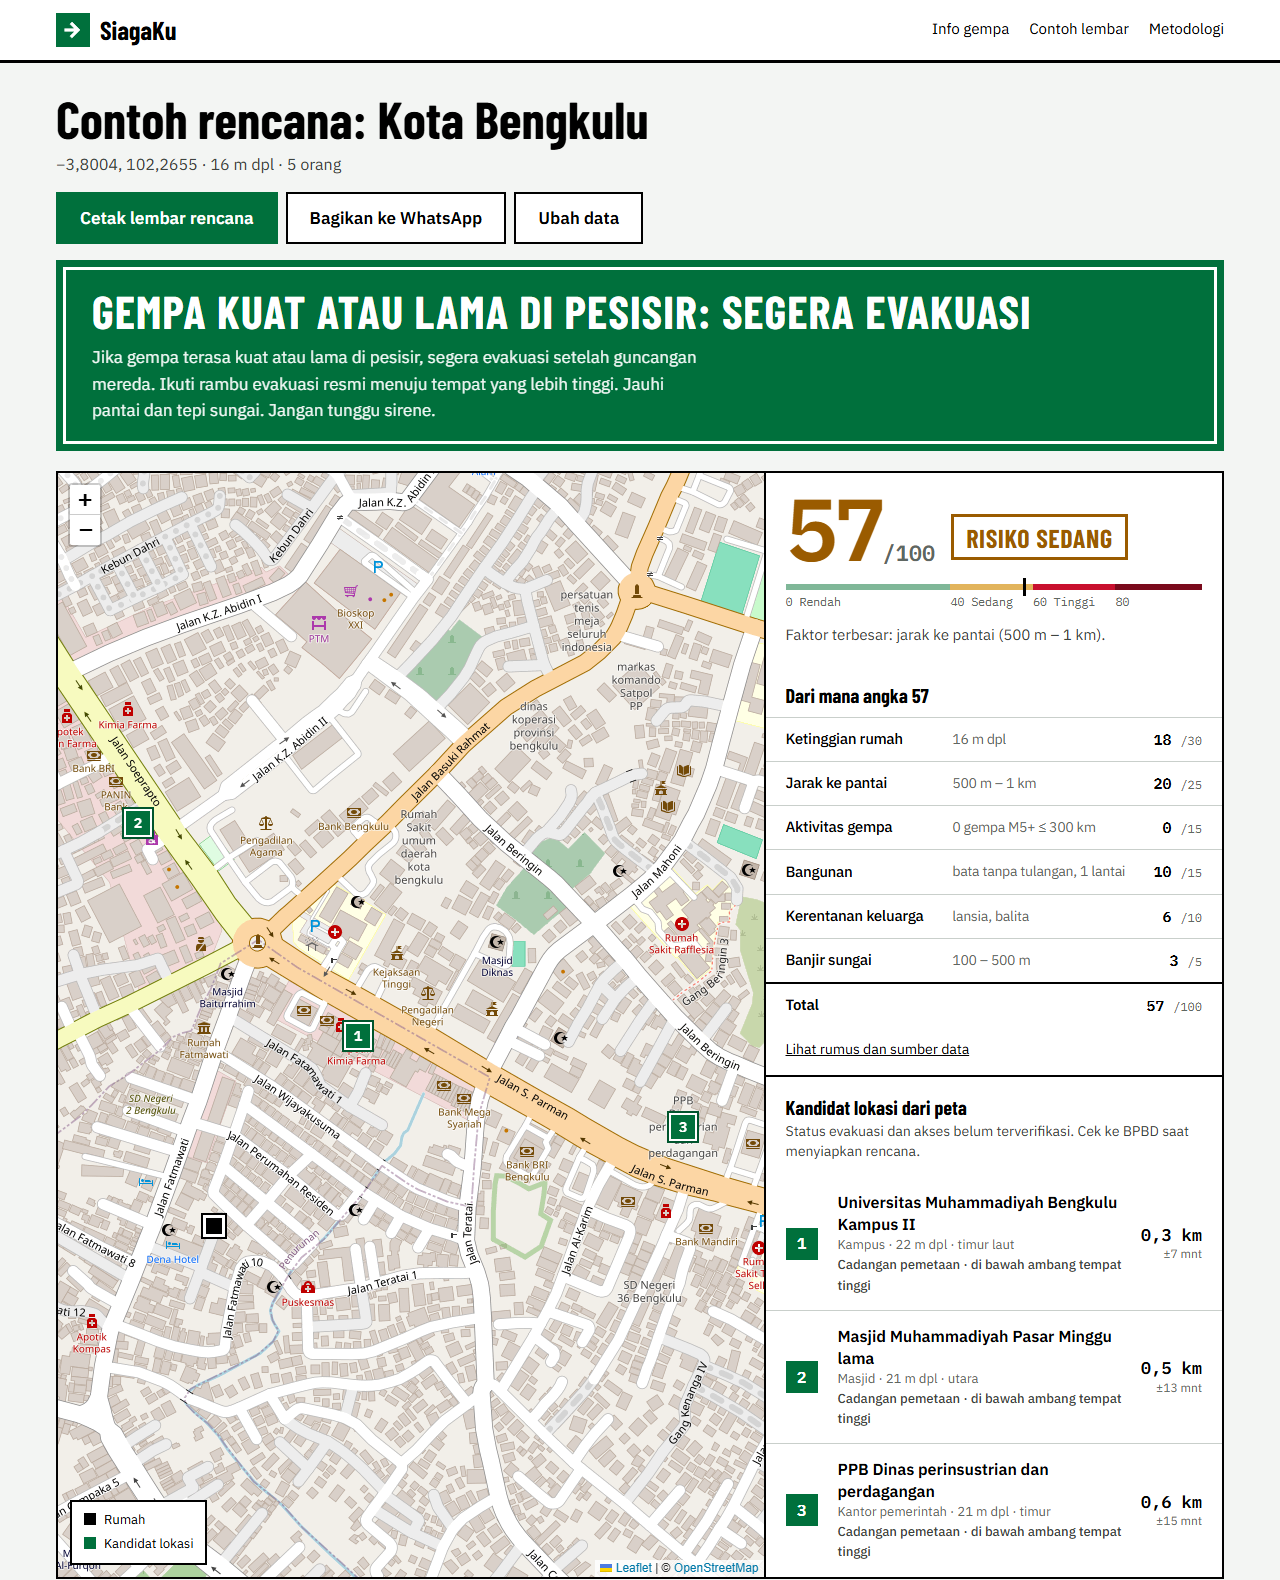
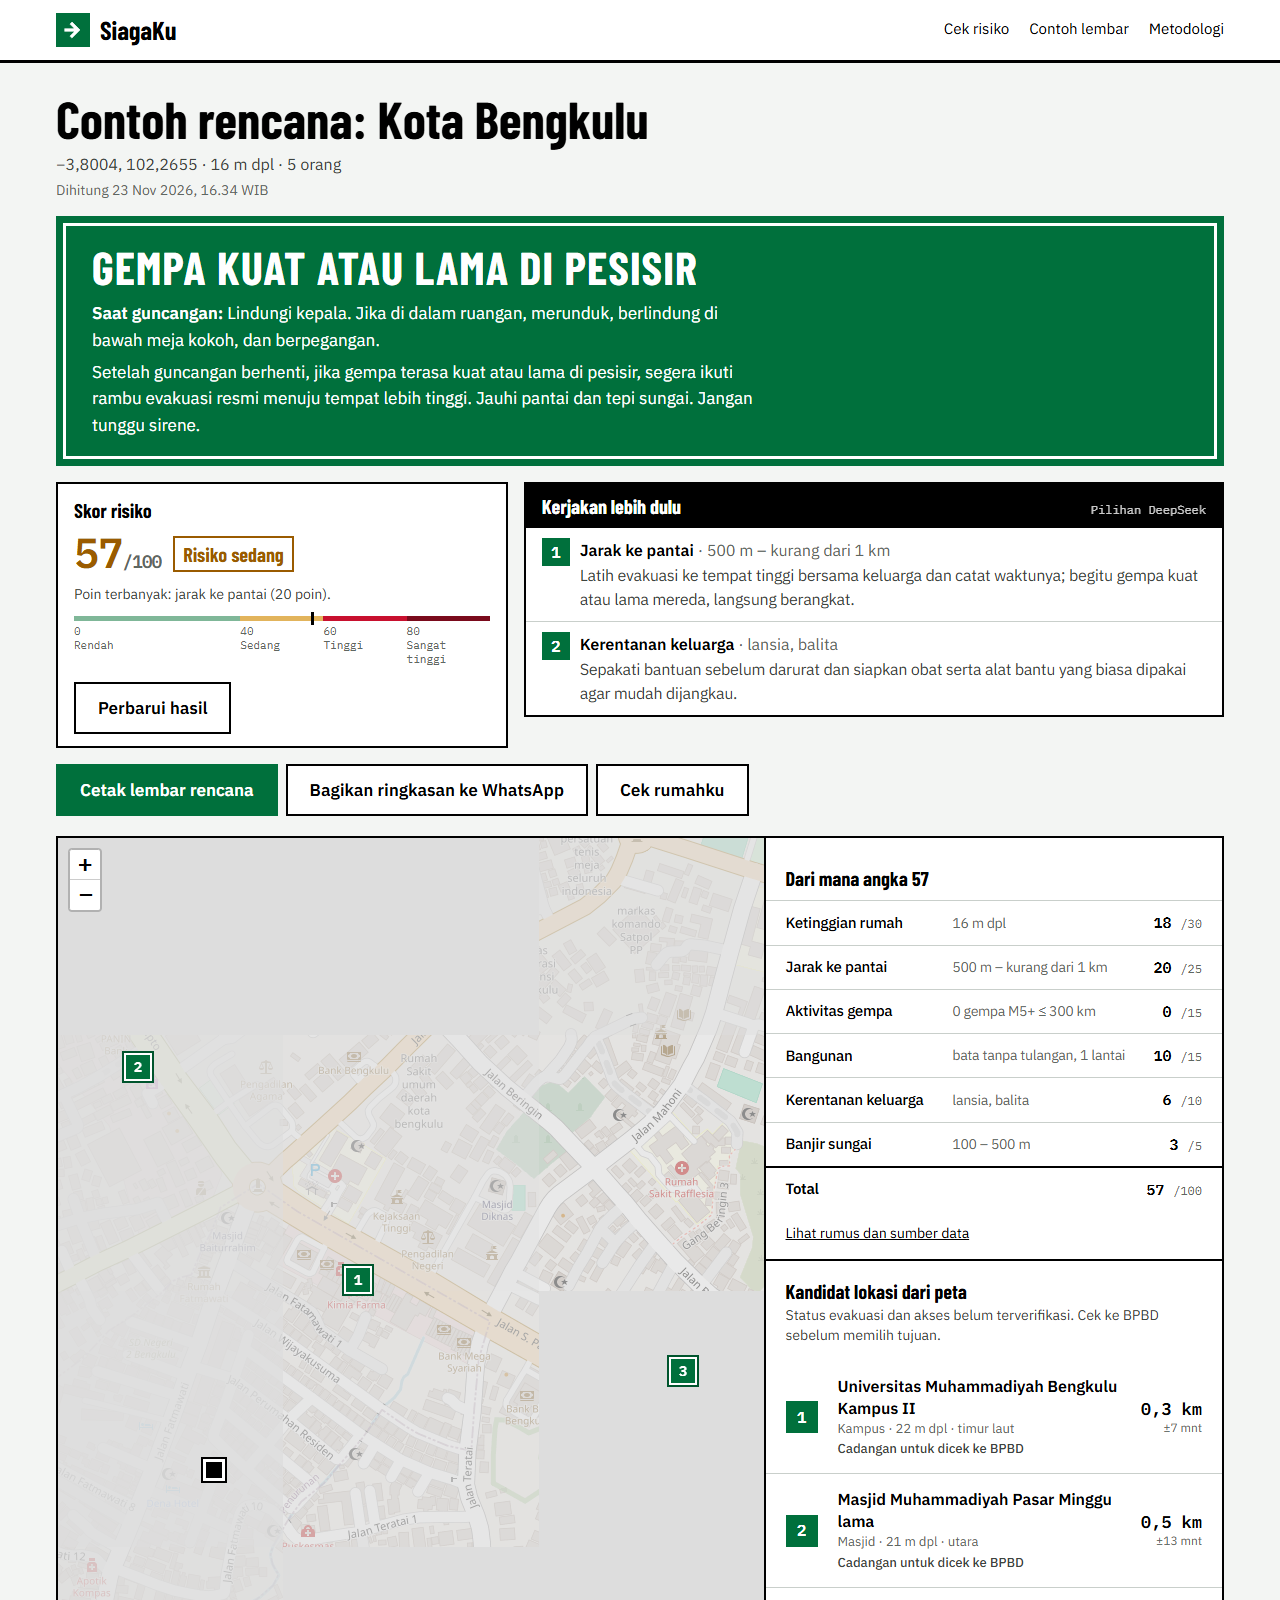
docs: selaraskan README lomba dan lisensi SiagaKu

diff --git a/README.md b/README.md
@@ -1,6 +1,6 @@
 # SiagaKu
 
-**Rencana siaga gempa & tsunami untuk satu rumah tangga — bukan untuk satu kota.**
+**Rencana siaga gempa dan tsunami untuk keluarga.**
 
 Tandai rumahmu di peta dan isi kondisi keluarga untuk melihat rincian skor risiko, kandidat lokasi sekitar, rencana evakuasi keluarga, dan isi tas siaga.
 
@@ -14,23 +14,21 @@ Tandai rumahmu di peta dan isi kondisi keluarga untuk melihat rincian skor risik
 
 ## Masalah
 
-Bengkulu berada di atas zona subduksi Sunda (segmen Megathrust Mentawai) dan pernah diguncang gempa besar pada 2000 dan 2007. Peta risiko dan info gempa yang ada bersifat **per wilayah**, sementara keputusan yang menentukan selamat atau tidak terjadi **per rumah**: lari ke mana, lewat mana, siapa membantu nenek atau balita, apa yang dibawa.
-
-Kebanyakan keluarga tidak tahu ketinggian rumahnya, tidak tahu jarak pastinya ke pantai, dan tidak punya rencana tertulis.
+Peta risiko dan kabar gempa membantu warga Bengkulu memahami ancaman di wilayahnya. Di rumah, masih ada keputusan yang perlu dibahas bersama. Siapa yang bisa membantu balita atau lansia? Di mana keluarga bertemu jika terpisah? SiagaKu menyiapkan lembar yang bisa diisi, dicetak, dan dibahas.
 
 ## Fitur
 
 | | |
 |---|---|
-| **Info gempa terkini BMKG** | Gempa terbaru di beranda, diperbarui tiap ±1 menit |
+| **Info gempa terkini BMKG** | Gempa terbaru dan daftar 15 kejadian M5+ terakhir, dengan waktu kejadian dan sumber |
 | **Pilih lokasi rumah** | GPS atau geser pin di peta; ketinggian (Open-Meteo) dan **jarak ke pantai dihitung otomatis** dari garis pantai OpenStreetMap |
 | **Skor risiko 0–100 yang transparan** | Rumus terbuka dari 6 faktor, setiap poin ditampilkan beserta alasannya |
 | **Kandidat lokasi dari peta** | Tempat umum dari OpenStreetMap yang disaring berdasarkan ketinggian dan jarak. Status evakuasi serta akses perlu dikonfirmasi ke BPBD |
 | **Papan rambu evakuasi** | Arahan sesuai kondisi pesisir atau nonpesisir, berdasarkan panduan BMKG |
-| **Rencana keluarga** | Aplikasi menyusun langkah, tugas, dan tips. DeepSeek memilih satu tips dan satu peran untuk dibahas lebih dulu |
+| **Rencana keluarga** | Aplikasi menyusun langkah, tugas, dan tas siaga. DeepSeek memilih dua fokus persiapan dari daftar yang ditulis aplikasi |
 | **Checklist tas siaga** | Isi dasar + kebutuhan khusus (lansia, balita, ibu hamil, disabilitas, obat rutin), tersimpan di perangkat |
-| **Bagikan ke WhatsApp** | Ringkasan rencana untuk grup keluarga |
-| **Tanpa akun** | Tidak ada login, tidak ada database; data hanya di perangkat pengguna |
+| **Cetak dan bagikan** | Simpan lembar lengkap sebagai PDF atau bagikan arahan umum dan tautan SiagaKu lewat WhatsApp |
+| **Tanpa akun** | Isian dikirim ke server saat dihitung. Draf, hasil, dan centang disimpan di browser |
 
 ## Cara kerja
 
@@ -59,13 +57,19 @@ Data keluarga ─┐
 2. DeepSeek menerima opsi persiapan yang dibuat aplikasi. Server hanya menerima dua indeks yang sesuai dengan daftar. Nama keluarga, koordinat rumah, dan tulisan obat rutin tidak dikirim ke DeepSeek.
 3. Jika AI gagal atau melampaui batas 8 detik, rencana tampil dengan urutan persiapan bawaan.
 
+Dalam satu uji contoh Kota Bengkulu, urutan bawaan memilih jarak ke pantai dan bangunan. DeepSeek memilih jarak ke pantai dan kerentanan keluarga, sehingga pendampingan anggota keluarga muncul di daftar persiapan awal.
+
+### Cara isian dipakai
+
+Formulir diproses oleh server saat pengguna meminta rencana. Koordinat dipakai untuk mengambil data peta atau elevasi. DeepSeek menerima jumlah penghuni, kategori anggota yang perlu bantuan, status obat rutin, kendaraan, dan opsi tindakan. WhatsApp menerima arahan umum dan tautan situs. Pengguna dapat menyimpan PDF secara terpisah. Tautan berbasis isian dari versi lama sudah dinonaktifkan.
+
 ## Metodologi skor (ringkas)
 
 | Faktor | Sumber | Maks | Aturan |
 |---|---|---|---|
-| Ketinggian rumah | Open-Meteo | 30 | < 5 m: 30 · 5–10: 25 · 10–20: 18 · 20–30: 10 · ≥ 30: 3 |
-| Jarak ke pantai | garis pantai OSM (bisa diubah pengguna) | 25 | < 0,5 km: 25 · 0,5–1: 20 · 1–3: 13 · 3–5: 6 · > 5: 0 |
-| Aktivitas gempa | BMKG, 15 gempa M5+ terakhir | 15 | dalam 300 km: 0 → 0 · 1 → 5 · 2–3 → 10 · ≥ 4 → 15 |
+| Ketinggian rumah | Open-Meteo | 30 | < 5 m: 30 · 5 hingga < 10: 25 · 10 hingga < 20: 18 · 20 hingga < 30: 10 · ≥ 30: 3 · data tidak tersedia: 25 |
+| Jarak ke pantai | garis pantai OSM (bisa diubah pengguna) | 25 | < 0,5 km: 25 · 0,5 hingga < 1: 20 · 1 hingga < 3: 13 · 3–5: 6 · > 5: 0 |
+| Aktivitas gempa | BMKG, 15 gempa M5+ terakhir | 15 | dalam 300 km: 0 → 0 · 1 → 5 · 2–3 → 10 · ≥ 4 → 15 · daftar tidak lengkap: skor sementara |
 | Bangunan | pengguna | 15 | beton bertulang 3 · bata tanpa tulangan 10 · kayu 8 · > 2 lantai tanpa tulangan +5 |
 | Kerentanan keluarga | pengguna | 10 | +3 per kategori (lansia, balita, ibu hamil, disabilitas), +1 tanpa kendaraan |
 | Banjir sungai | pengguna | 5 | < 100 m: 5 · 100–500 m: 3 · lebih jauh: 0 |
@@ -73,10 +77,10 @@ Data keluarga ─┐
 Kategori: 0–39 Rendah · 40–59 Sedang · 60–79 Tinggi · 80–100 Sangat tinggi. Detail di halaman [/tentang](https://siagaku.vercel.app/tentang).
 
 **Kandidat lokasi dua tingkat.** Data contoh dari Kota Bengkulu menunjukkan sedikit tempat umum di ketinggian ≥ 30 m dalam radius 5 km. Peta menampilkan kandidat untuk diperiksa saat menyusun rencana keluarga.
-1. **Tempat tinggi** — ≥ 30 m (atau ≥ rumah + 15 m) dalam 5 km, diutamakan.
-2. **Cadangan pemetaan** — jika tingkat pertama kurang dari 3 kandidat. Radius 3 km, minimal 5 m lebih tinggi dari rumah, serta terbukti lebih jauh dari pantai berdasarkan data jarak rumah dan kandidat.
+1. **Tingkat 1.** Radius 5 km, ambang terendah di antara 30 m dan elevasi rumah ditambah 15 m. Jika elevasi rumah diketahui, kandidat juga harus lebih tinggi dari rumah. Jika tidak, ambangnya 30 m.
+2. **Cadangan pemetaan.** Digunakan pada data bawaan Bengkulu jika tingkat pertama kurang dari tiga kandidat. Radius 3 km, minimal 5 m lebih tinggi dari rumah dan lebih jauh dari garis pantai berdasarkan kedua jarak yang terukur.
 
-> Skor bersifat indikatif berdasarkan faktor yang lazim dipakai BNPB/InaRISK, **bukan pengganti kajian resmi BPBD**.
+> Skor indikatif ini memakai bobot yang disusun tim untuk membantu persiapan. Untuk kajian bahaya wilayah dan tujuan evakuasi resmi, cek InaRISK dan BPBD.
 
 ## Tech stack
 
@@ -87,7 +91,7 @@ Kategori: 0–39 Rendah · 40–59 Sedang · 60–79 Tinggi · 80–100 Sangat t
 | Peta | Leaflet 1.9 + react-leaflet 5, tile OpenStreetMap |
 | Validasi | zod 4 |
 | AI dalam produk | DeepSeek `deepseek-chat` (API format OpenAI), dipanggil hanya dari server |
-| Uji | Vitest (110 unit test) |
+| Uji | Vitest untuk logika dan API, serta pengujian alur di browser |
 | Hosting | Vercel |
 
 ## Menjalankan di komputer sendiri
@@ -140,8 +144,8 @@ scripts/                  pengunduh data
 
 - Ketinggian dari model elevasi global (resolusi ±90 m), bukan survei lapangan.
 - Data kandidat bawaan mencakup Provinsi Bengkulu. Di daerah lain, kelengkapan data bergantung pada Overpass.
-- Belum mempertimbangkan apakah bangunan tujuan benar-benar bisa dimasuki saat darurat atau berapa lantainya.
-- Rute masih garis lurus + estimasi; belum memakai jaringan jalan.
+- Rentang 15 gempa terakhir mengikuti data BMKG. Batas 5 km dari pantai adalah aturan aplikasi untuk skor dan arahan awal. Ikuti peringatan resmi yang berlaku di lokasimu.
+- Akses dan kelayakan setiap kandidat harus dicek ke BPBD. Jarak garis lurus dan taksiran waktu hanya membantu persiapan awal.
 - Lanjutan: data TES (tempat evakuasi sementara) resmi dari BPBD, rute jalan kaki nyata, mode luring (PWA), dan versi untuk sekolah.
 
 ## Pengungkapan penggunaan AI, library, aset, dan data
@@ -150,7 +154,7 @@ Bagian ini wajib menurut panduan lomba.
 
 **AI coding assistant**
 - **Claude Code (Anthropic)** — membantu menulis, menguji, dan merapikan kode, serta menyusun dokumen perencanaan, atas arahan dan keputusan tim. Commit yang dibantu ditandai `Co-Authored-By: Claude` di riwayat git.
-- **OpenAI Codex** — asisten coding cadangan saat Claude Code mencapai batas pemakaian.
+- **OpenAI Codex** — membantu menulis dan meninjau kode, menguji regresi di browser, dan menyelaraskan dokumentasi.
 
 **AI di dalam produk**
 - **DeepSeek** (`deepseek-chat`) — membaca kondisi keluarga dan memilih dua *fokus persiapan* paling mendesak ("Kerjakan lebih dulu") dari daftar faktor-tindakan yang disusun aplikasi. AI hanya mengembalikan nomor opsi; teks, skor, langkah darurat, dan peran selalu dari aplikasi, sehingga AI tidak bisa menambahkan angka, tempat, atau instruksi baru. Gagal/tidak valid/lebih dari 8 detik → fokus bawaan dari skor.
@@ -165,11 +169,11 @@ Bagian ini wajib menurut panduan lomba.
 **Data:**
 - **BMKG** — data gempa terbuka (data.bmkg.go.id). Sumber: BMKG.
 - **OpenStreetMap** — peta, garis pantai, dan calon titik aman. © kontributor OpenStreetMap, lisensi ODbL.
-- **Open-Meteo** — API ketinggian, lisensi CC BY 4.0.
+- **Open-Meteo** — API ketinggian berbasis Copernicus DEM GLO-90, [lisensi data CC BY 4.0](https://open-meteo.com/en/license).
 
 ## Tim
 
-**Tim SiagaKu** — Universitas Bengkulu
+**Tim Cihuyy** — IT RUSH 2026
 
 | Nama | Peran |
 |---|---|
@@ -178,4 +182,4 @@ Bagian ini wajib menurut panduan lomba.
 
 ## Lisensi
 
-Kode: MIT. Data OpenStreetMap di `src/data/` tetap berlisensi ODbL.
+Kode: [MIT](LICENSE). Data OpenStreetMap di `src/data/` berlisensi [ODbL](https://www.openstreetmap.org/copyright).
